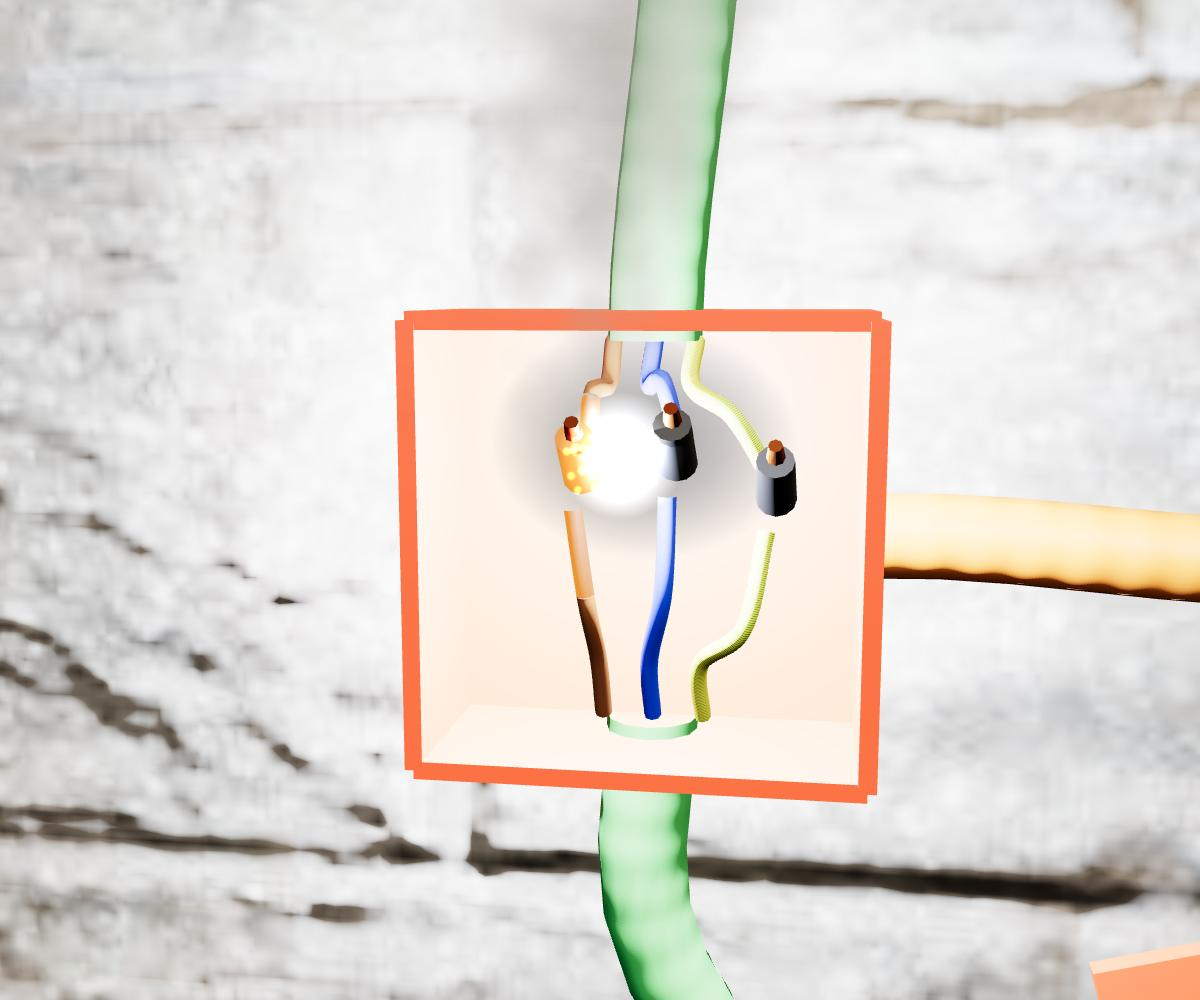
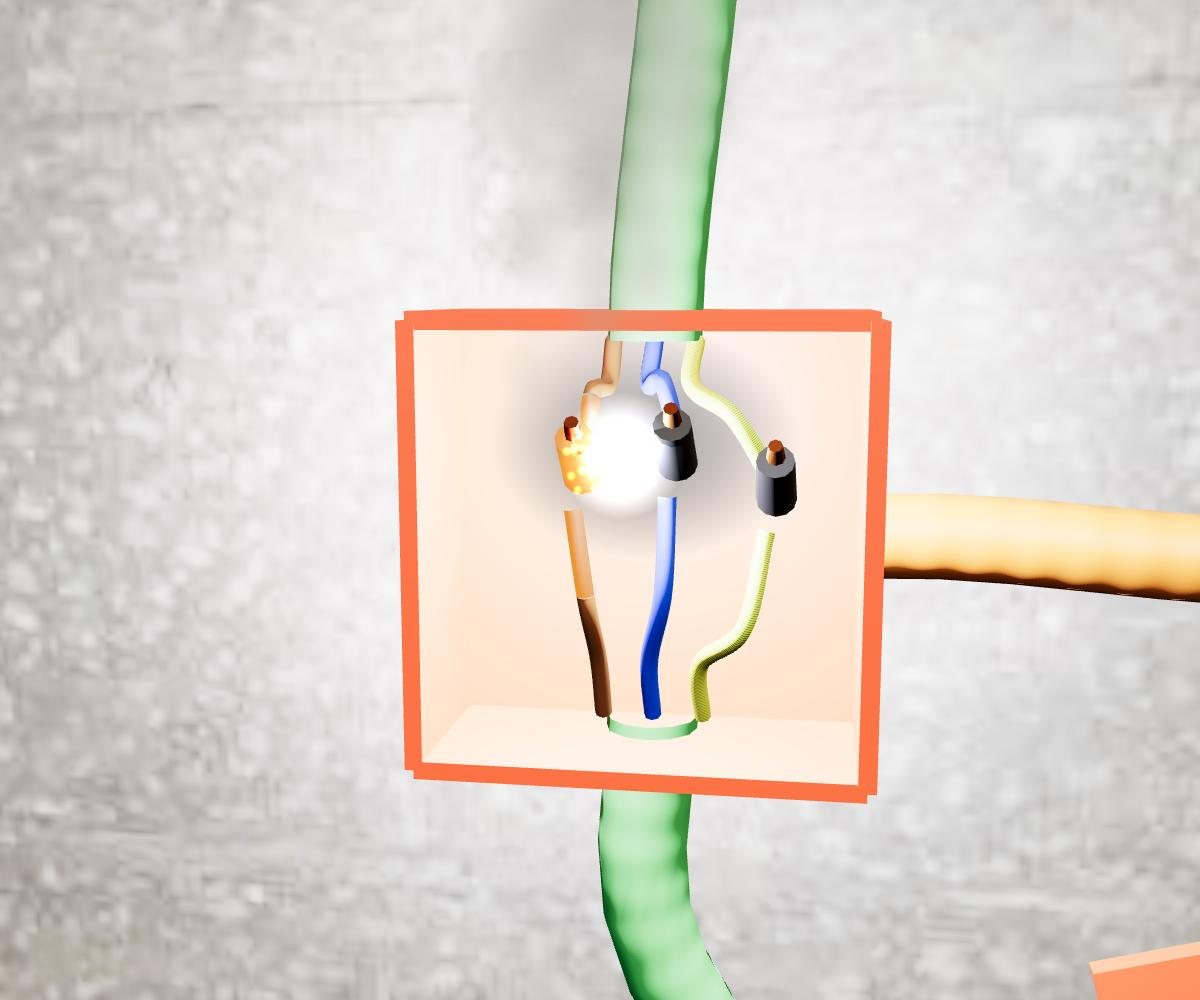
Deploy demos 18

diff --git a/or-hadash-electrician-haifa/short3d.js b/or-hadash-electrician-haifa/short3d.js
@@ -76,7 +76,7 @@ export function initShort3D(host, labelHost, opts = {}) {
   const M = (o) => { const m = new THREE.MeshStandardMaterial(o); m.userData.env = o.envMapIntensity ?? 1; mats.push(m); return m; };
 
   // ---- the block wall, as in the photographs of Salah's rough-in work
-  const blockMat = M({ map: tex('concrete_block_wall_light_diff', true, 2.2, 1.7), normalMap: tex('concrete_block_wall_nor_gl', false, 2.2, 1.7), roughnessMap: tex('concrete_block_wall_rough_rgb', false, 2.2, 1.7), roughness: 1, color: 0xe8e4de });
+  const blockMat = M({ map: tex('concrete_block_wall_light_diff', true, 2.2, 1.7), metalness: 0, roughness: 0.95, color: 0xe8e4de });
   const wall = new THREE.Mesh(new THREE.BoxGeometry(3.6, 2.7, 0.2), blockMat); wall.position.set(0, 0.25, -0.1); scene.add(wall);
 
   // ---- the plaster, with the opening cut by hand (ragged, irregular edge)
@@ -92,7 +92,7 @@ export function initShort3D(host, labelHost, opts = {}) {
   }
   hole.moveTo(pts[0][0], pts[0][1]); pts.slice(1).forEach((q) => hole.lineTo(q[0], q[1])); hole.closePath(); shape.holes.push(hole);
   const plGeo = new THREE.ExtrudeGeometry(shape, { depth: 0.028, bevelEnabled: false, curveSegments: 4 });
-  const plMat = M({ map: tex('white_plaster_02_diff', true, 1.6, 1.3), normalMap: tex('white_plaster_02_nor_gl', false, 1.6, 1.3), roughnessMap: tex('white_plaster_02_rough_rgb', false, 1.6, 1.3), color: 0xf3efe8, envMapIntensity: 0.5 });
+  const plMat = M({ map: tex('white_plaster_02_diff', true, 1.6, 1.3), metalness: 0, roughness: 0.92, color: 0xf3efe8, envMapIntensity: 0.5 });
   plGeo.attributes.uv && (() => { const uv = plGeo.attributes.uv; for (let i = 0; i < uv.count; i++) uv.setXY(i, uv.getX(i) / 3.6 + 0.5, uv.getY(i) / 2.7 + 0.4); })();
   const plaster = new THREE.Mesh(plGeo, plMat); scene.add(plaster);
 

diff --git a/or-hadash-electrician-haifa/index.html b/or-hadash-electrician-haifa/index.html
@@ -864,7 +864,7 @@ html.still *, html.still *::before, html.still *::after { transition-duration: 0
   function start() {
     if (api) { api.resume(); window.__short3d = api; rerender(); return; }
     if (loading) return;
-    loading = import('./short3d.js?v=3').then(({ initShort3D }) => {
+    loading = import('./short3d.js?v=4').then(({ initShort3D }) => {
       if (isStill()) return;
       api = initShort3D(host, host.querySelector('.l3d-host'), { calm: isStill });
       if (!api) return fail();
